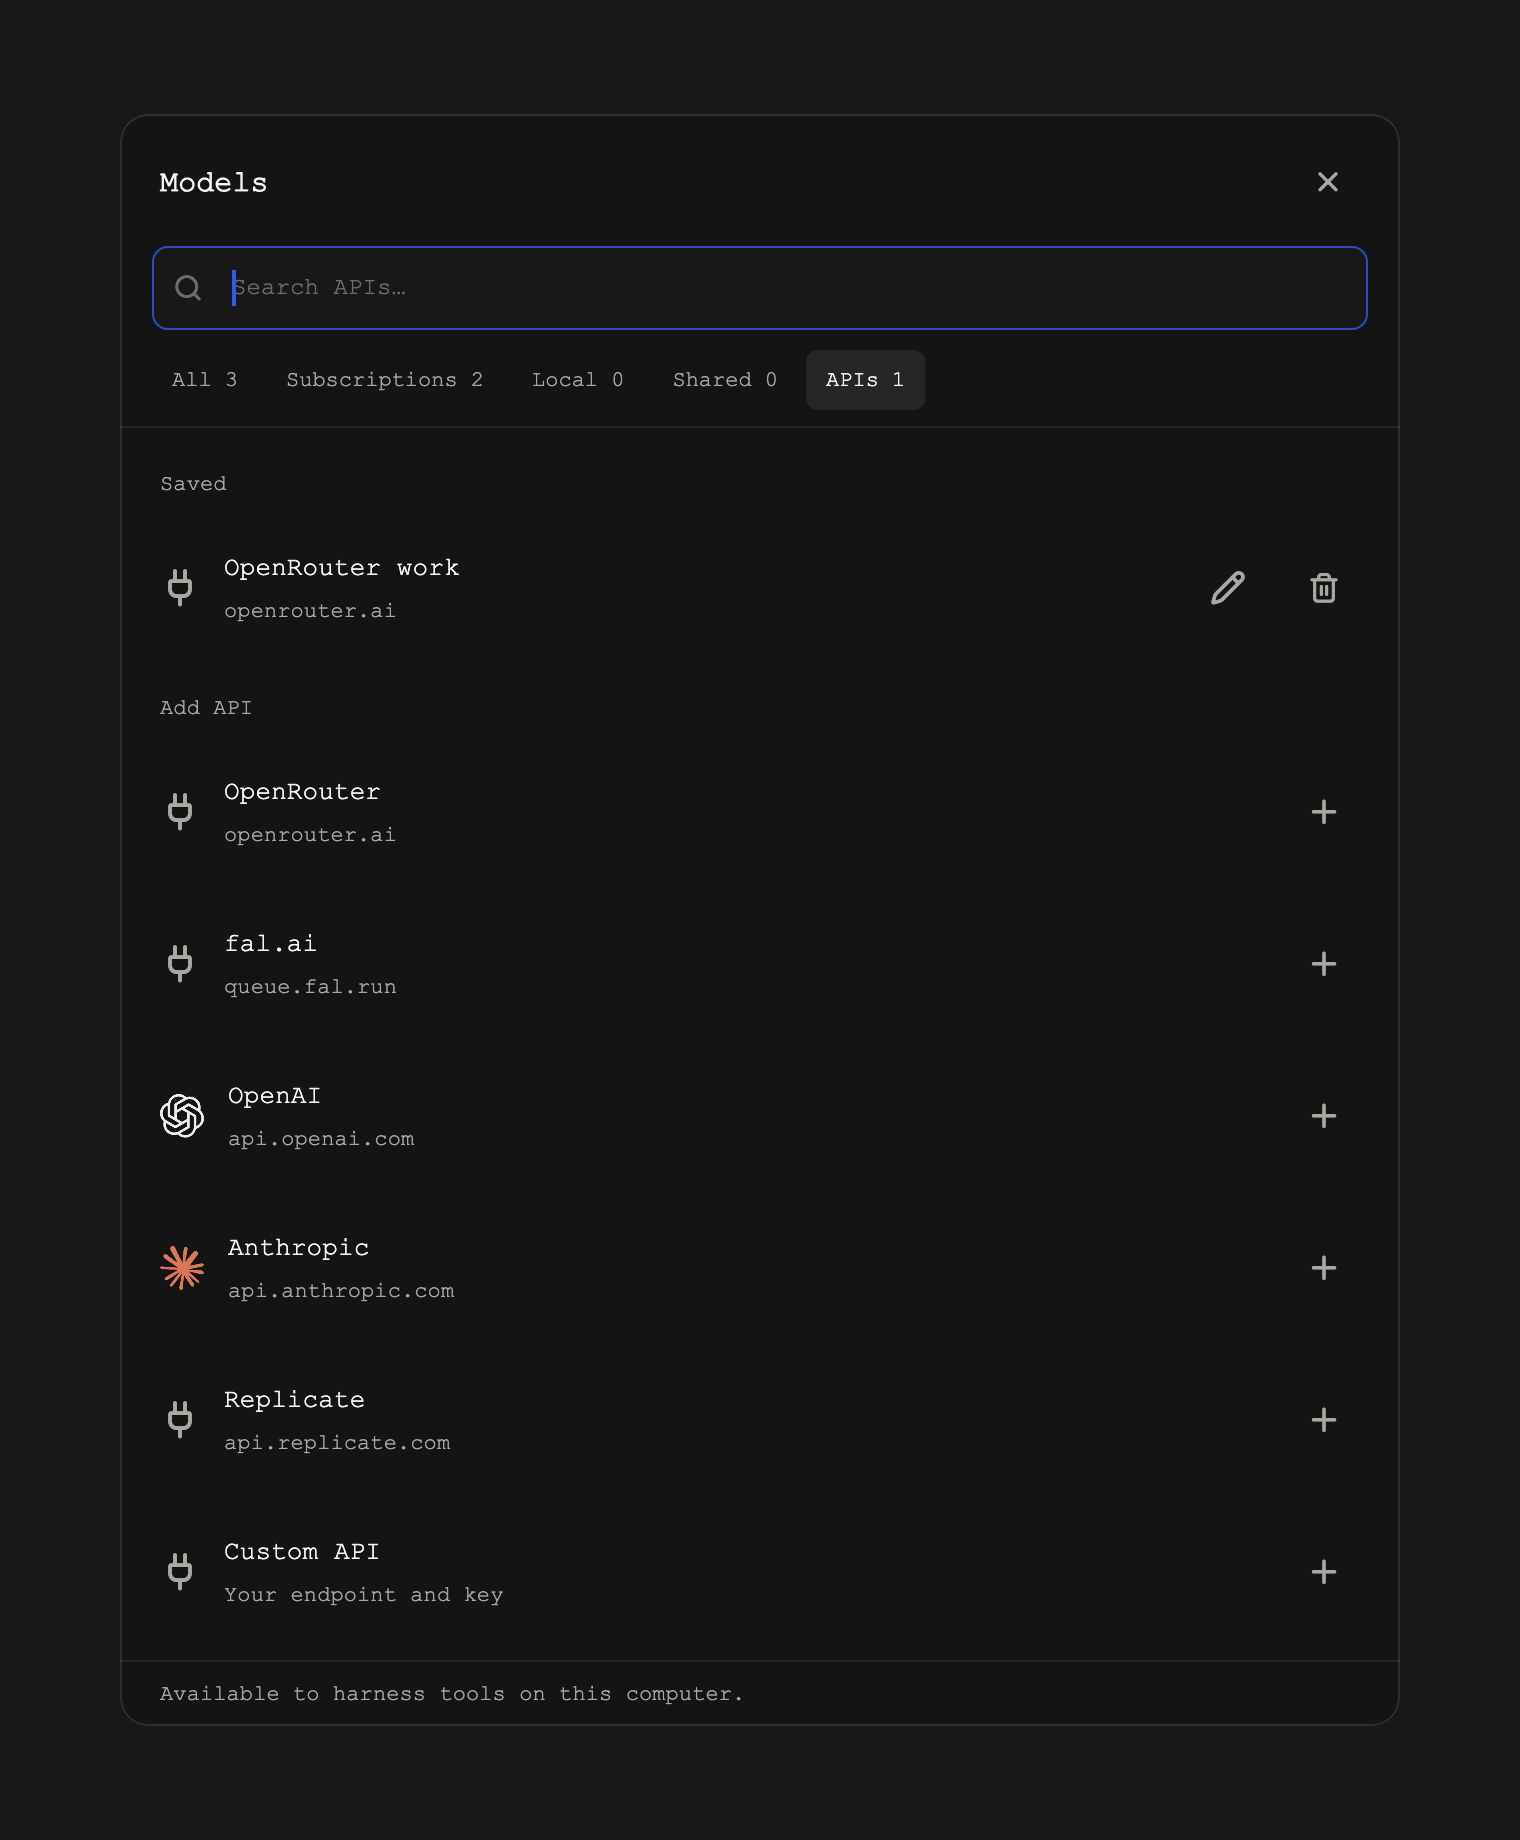
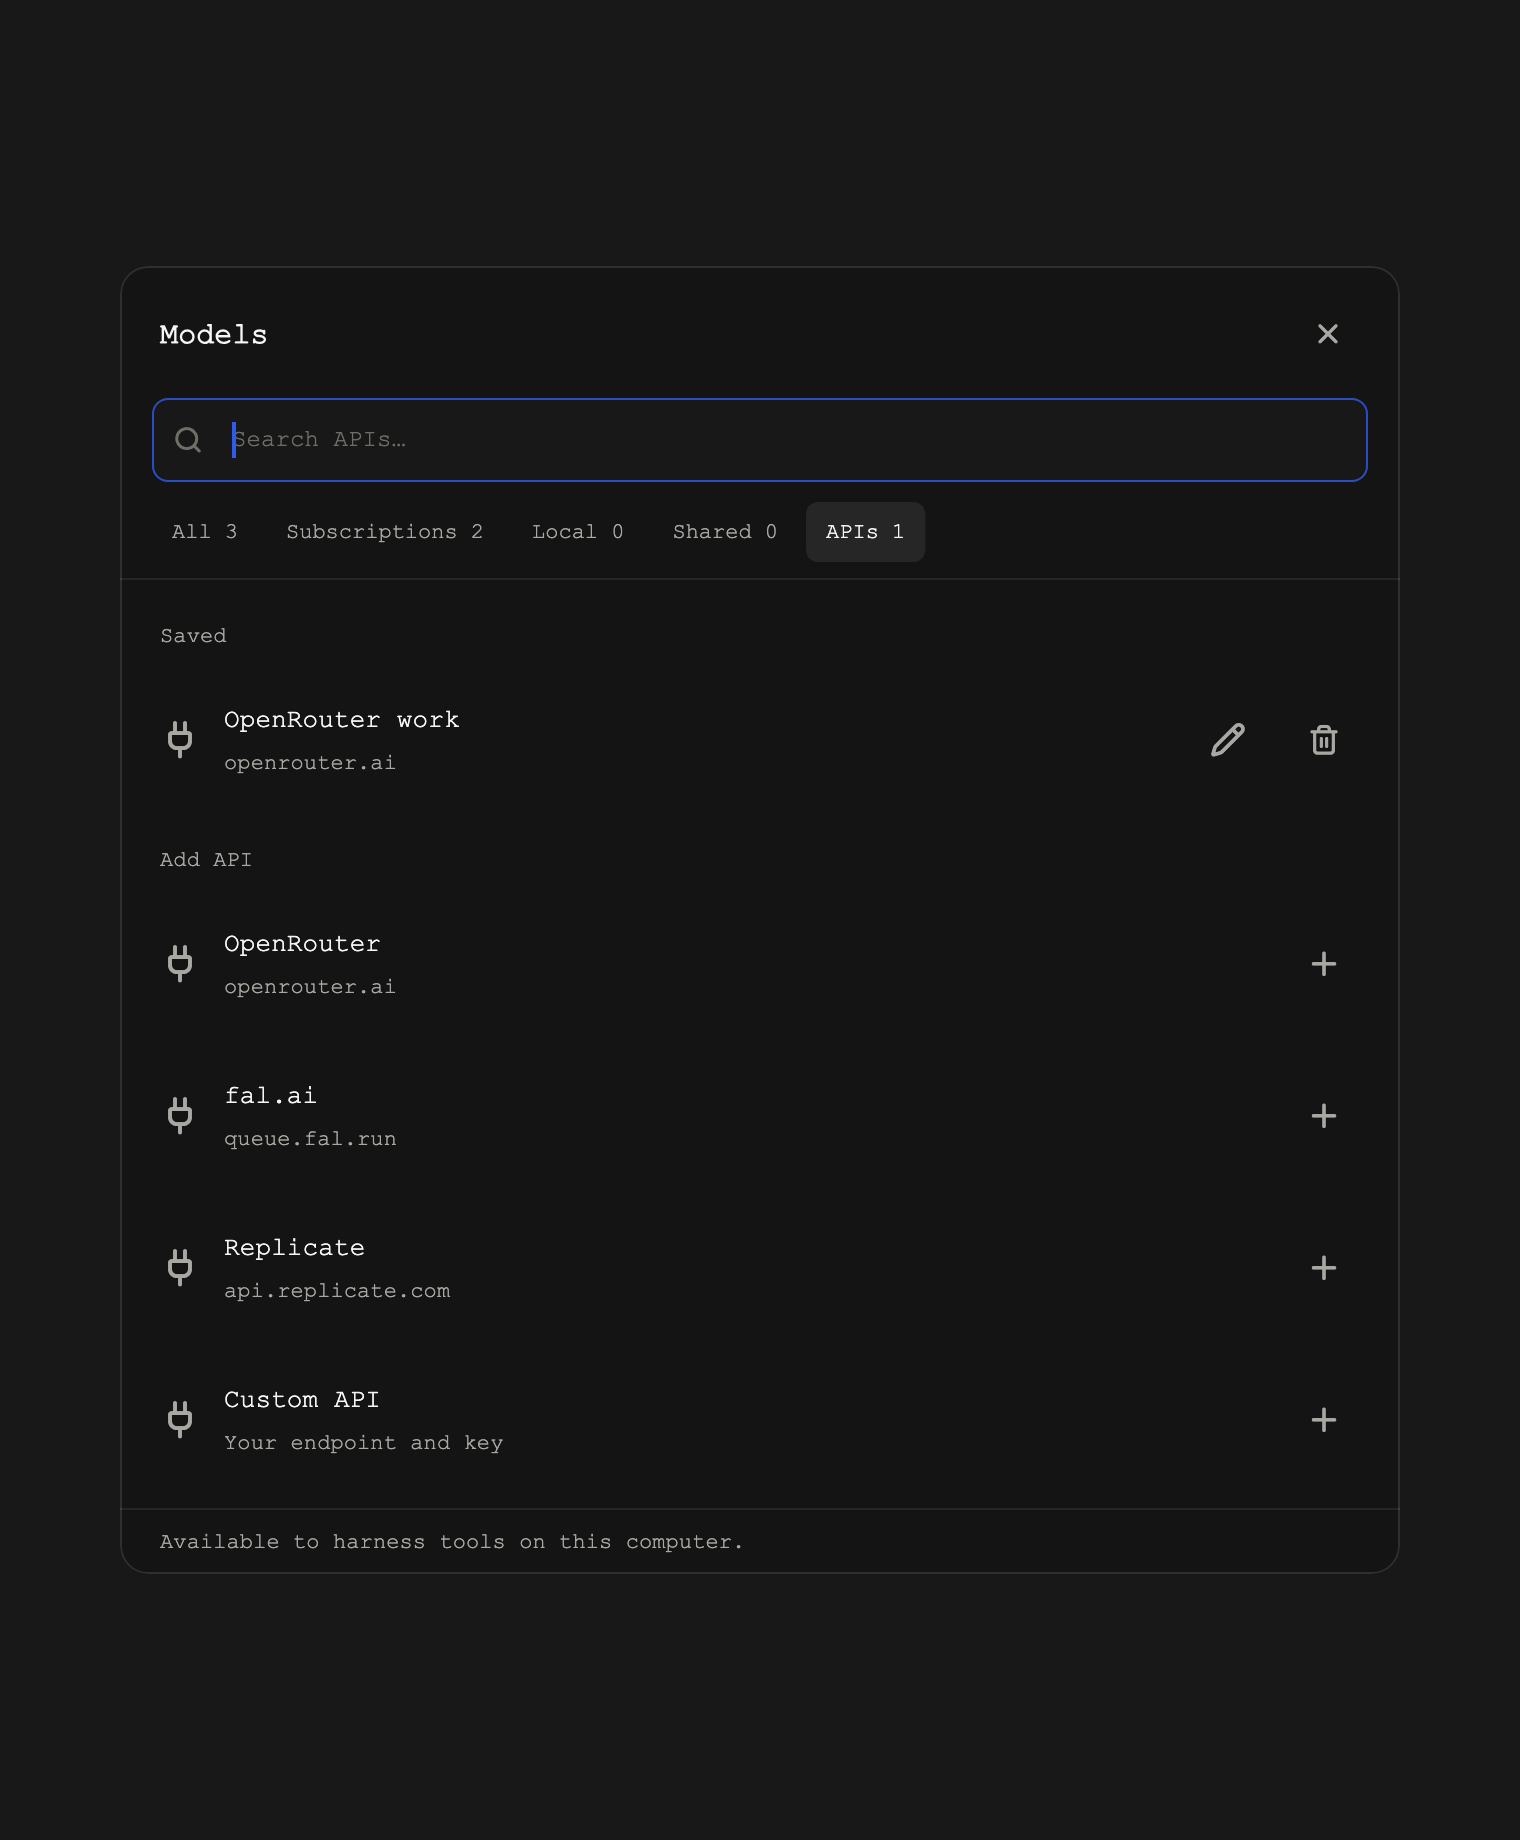
refactor(models): simplify suggested API providers

diff --git a/desktop/test/api_connections_test.dart b/desktop/test/api_connections_test.dart
@@ -690,6 +690,44 @@ void main() {
     },
   );
 
+  testWidgets('subscription providers stay editable without API suggestions', (
+    tester,
+  ) async {
+    final (app, controller) = await mount(tester);
+    app.allPresets = true;
+    app.rows = [
+      {
+        ...preset,
+        'id': 'openai',
+        'provider': 'openai',
+        'name': 'OpenAI',
+        'baseUrl': 'https://api.openai.com/v1',
+      },
+      {
+        ...preset,
+        'id': 'anthropic',
+        'provider': 'anthropic',
+        'name': 'Anthropic',
+        'baseUrl': 'https://api.anthropic.com/v1',
+      },
+    ];
+    await controller.apis.refresh();
+    await tester.pumpAndSettle();
+    for (final provider in ['OpenAI', 'Anthropic']) {
+      expect(find.byTooltip('Add $provider'), findsNothing);
+      await tester.tap(find.byTooltip('Edit $provider'));
+      await tester.pumpAndSettle();
+      expect(find.text('Leave blank to keep saved key'), findsOneWidget);
+      await tester.tap(find.byTooltip('Back to APIs'));
+      await tester.pumpAndSettle();
+    }
+    expect(find.byTooltip('Add OpenRouter'), findsOneWidget);
+    expect(find.byTooltip('Add fal.ai'), findsOneWidget);
+    expect(find.byTooltip('Add Replicate'), findsOneWidget);
+    expect(find.byTooltip('Add Custom API'), findsOneWidget);
+    expect(tester.takeException(), isNull);
+  });
+
   testWidgets('API list and editor render in the Models panel', (tester) async {
     tester.view.physicalSize = const Size(760, 920);
     tester.view.devicePixelRatio = 1;
@@ -754,6 +792,8 @@ void main() {
       });
     }
 
+    expect(find.byTooltip('Add OpenAI'), findsNothing);
+    expect(find.byTooltip('Add Anthropic'), findsNothing);
     await capture('apis-list');
     await tester.tap(find.byTooltip('Add Custom API'));
     await tester.pumpAndSettle();

diff --git a/desktop/lib/models/api_connections_panel.dart b/desktop/lib/models/api_connections_panel.dart
@@ -77,7 +77,14 @@ class _ApiConnectionsPanelState extends State<ApiConnectionsPanel> {
           .where((row) => row.matches(query))
           .toList();
       final presets = controller.presets
-          .where((row) => row.matches(query))
+          // Subscription providers remain usable through Custom API and any
+          // saved connections, without suggesting a second setup here.
+          .where(
+            (row) =>
+                row.provider != 'openai' &&
+                row.provider != 'anthropic' &&
+                row.matches(query),
+          )
           .toList();
       final customMatches = 'custom api'.contains(query);
       return Column(

diff --git a/docs/api-connections.md b/docs/api-connections.md
@@ -7,7 +7,7 @@ APIs grouped in one searchable view. The source tabs narrow the list.
 
 Open **Models → APIs**, choose a provider, paste its key, and select **Save**.
 The clipboard icon pastes the key directly; it remains hidden until you reveal it.
-OpenRouter, fal.ai, OpenAI, Anthropic, and Replicate have presets. **Custom API**
+OpenRouter, fal.ai, and Replicate have presets. **Custom API**
 accepts a name, base URL, and key; **Advanced** controls the key environment
 variable, authentication header, and optional prefix.
 
@@ -69,9 +69,7 @@ tool receives the selected credential. Connections do not sync between machines.
 
 Preset defaults come from the providers' documentation:
 [OpenRouter](https://openrouter.ai/docs/api/reference/authentication),
-[fal.ai](https://fal.ai/models/fal-ai/flux/dev/api),
-[OpenAI](https://developers.openai.com/api/reference/overview),
-[Anthropic](https://platform.claude.com/docs/en/api/overview), and
+[fal.ai](https://fal.ai/models/fal-ai/flux/dev/api), and
 [Replicate](https://replicate.com/docs/reference/http).
 
 ## Validation
